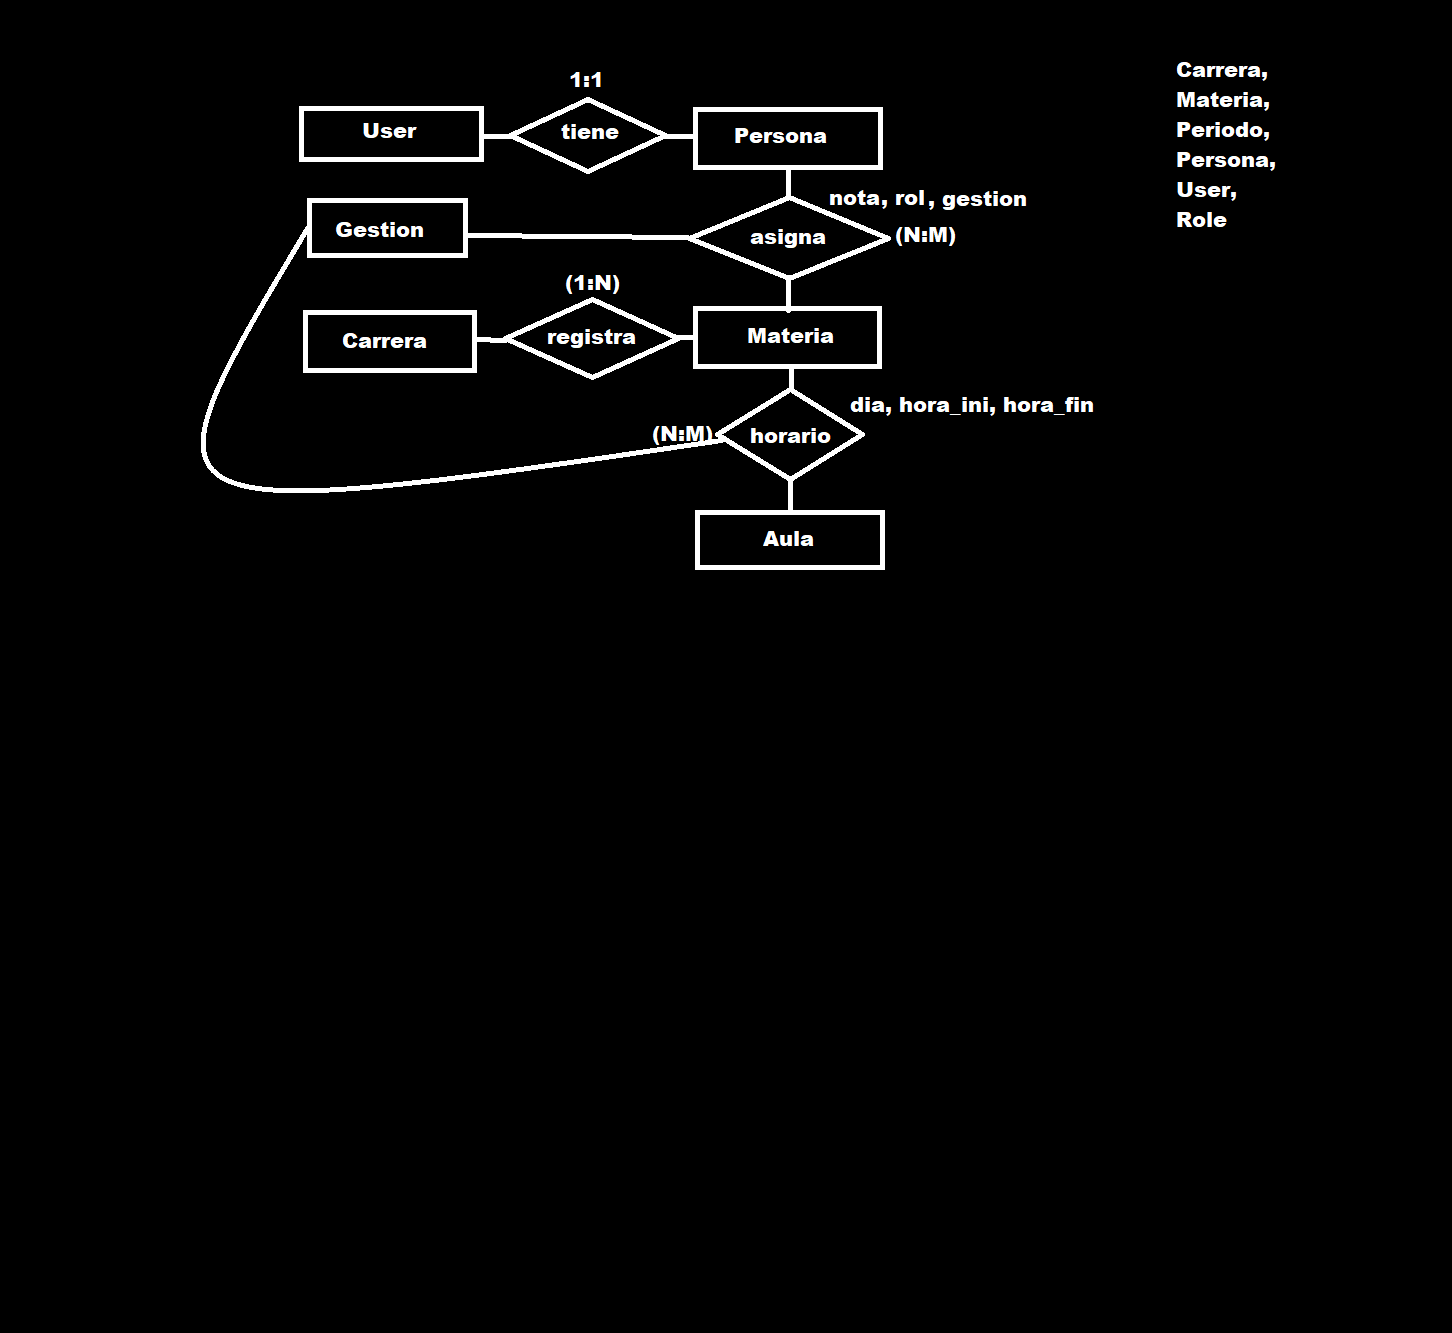
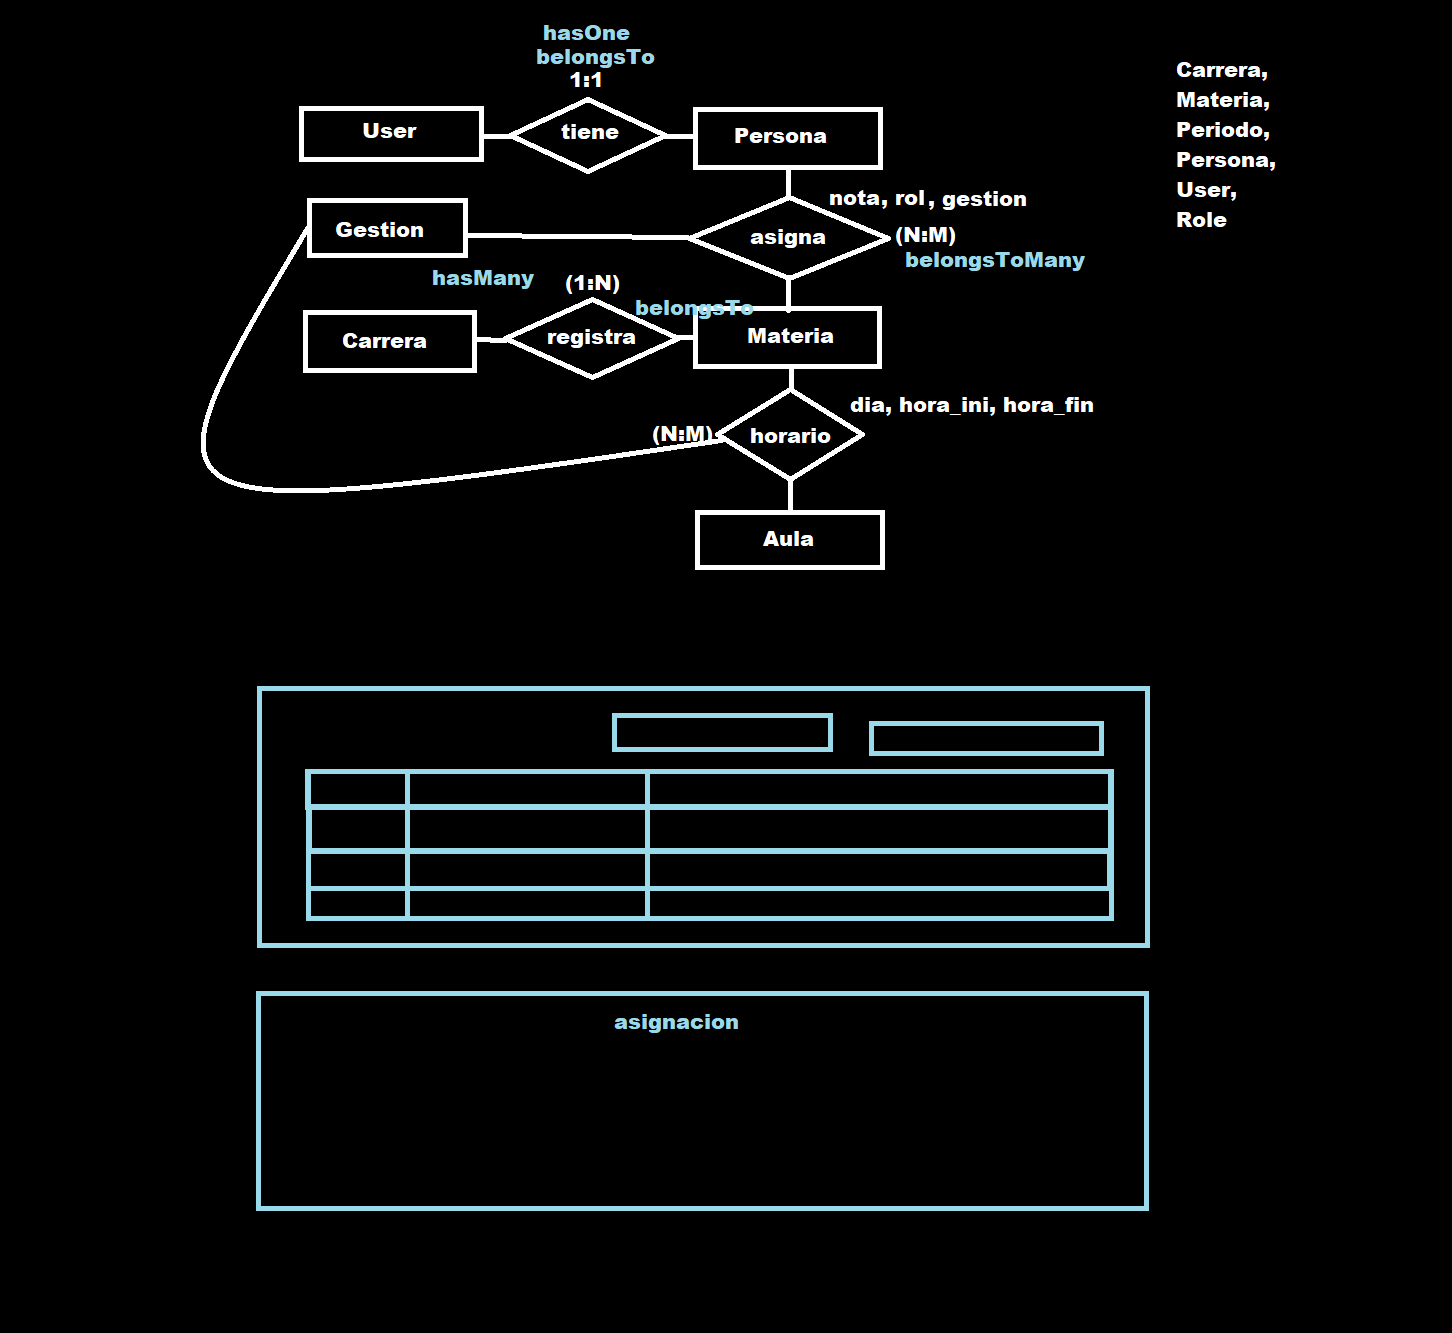
Relaciones

diff --git a/app/Http/Controllers/GestionController.php b/app/Http/Controllers/GestionController.php
@@ -1,0 +1,110 @@
+<?php
+
+namespace App\Http\Controllers;
+
+use App\Models\Gestion;
+use Illuminate\Http\Request;
+
+class GestionController extends Controller
+{
+    /**
+     * Display a listing of the resource.
+     *
+     * @return \Illuminate\Http\Response
+     */
+    public function index()
+    {
+        $gestiones = Gestion::all();
+
+        return response()->json($gestiones, 200);     
+        
+    }
+
+    /**
+     * Store a newly created resource in storage.
+     *
+     * @param  \Illuminate\Http\Request  $request
+     * @return \Illuminate\Http\Response
+     */
+    public function store(Request $request)
+    {
+        $request->validate([
+            "gestion" => "required",
+        ]);
+
+        $ges= new Gestion();
+        $ges->gestion = $request->gestion;
+        $ges->estado = false;
+        $ges->detalle = $request->detalle;
+        $ges->save();
+
+        return response()->json([
+            "mensaje" => "Gestion registrada"
+        ], 201);       
+
+    }
+
+    /**
+     * Display the specified resource.
+     *
+     * @param  int  $id
+     * @return \Illuminate\Http\Response
+     */
+    public function show($id)
+    {
+        $ges = Gestion::find($id);
+        return response()->json($ges, 200); 
+    }
+
+    /**
+     * Update the specified resource in storage.
+     *
+     * @param  \Illuminate\Http\Request  $request
+     * @param  int  $id
+     * @return \Illuminate\Http\Response
+     */
+    public function update(Request $request, $id)
+    {
+         $request->validate([
+            "gestion" => "required",
+        ]);
+
+        $ges = Gestion::find($id);
+        $ges->gestion = $request->gestion;
+        $ges->estado = false;
+        $ges->detalle = $request->detalle;
+        $ges->save();
+
+        return response()->json([
+            "mensaje" => "Gestion modificada"
+        ], 200);      
+    }
+
+    /**
+     * Remove the specified resource from storage.
+     *
+     * @param  int  $id
+     * @return \Illuminate\Http\Response
+     */
+    public function destroy($id)
+    {
+        $ges = Gestion::find($id);
+        $ges->delete();
+
+        return response()->json([
+            "mensaje" => "Gestion eliminada"
+        ], 200);
+    }
+
+    public function cambiarGestion($id)
+    {
+        foreach (Gestion::all() as $ges) {
+            if($ges->id == $id){
+                $ges->estado = true;
+            }else{
+                $ges->estado = false;
+            }
+            $ges->save();
+        }        
+    }
+}

diff --git a/app/Http/Controllers/AulaController.php b/app/Http/Controllers/AulaController.php
@@ -1,0 +1,95 @@
+<?php
+
+namespace App\Http\Controllers;
+
+use App\Models\Aula;
+use Illuminate\Http\Request;
+
+class AulaController extends Controller
+{
+    /**
+     * Display a listing of the resource.
+     *
+     * @return \Illuminate\Http\Response
+     */
+    public function index()
+    {
+        $aulas = Aula::all();
+        return response()->json($aulas);
+    }
+
+    /**
+     * Store a newly created resource in storage.
+     *
+     * @param  \Illuminate\Http\Request  $request
+     * @return \Illuminate\Http\Response
+     */
+    public function store(Request $request)
+    {
+        $request->validate([
+            "nombre" => "required",
+        ]);
+
+        $aula = new Aula();
+        $aula->nombre = $request->nombre;
+        $aula->ubicacion = $request->ubicacion;
+        $aula->capacidad = $request->capacidad;
+        $aula->save();
+
+        return response()->json([
+            "mensaje" => "Aula registrada"
+        ], 201);
+    }
+
+    /**
+     * Display the specified resource.
+     *
+     * @param  int  $id
+     * @return \Illuminate\Http\Response
+     */
+    public function show($id)
+    {
+        $aula = Aula::find($id);
+        return response()->json($aula, 200);
+    }
+
+    /**
+     * Update the specified resource in storage.
+     *
+     * @param  \Illuminate\Http\Request  $request
+     * @param  int  $id
+     * @return \Illuminate\Http\Response
+     */
+    public function update(Request $request, $id)
+    {
+        $request->validate([
+            "nombre" => "required",
+        ]);
+
+        $aula = Aula::find($id);
+        $aula->nombre = $request->nombre;
+        $aula->ubicacion = $request->ubicacion;
+        $aula->capacidad = $request->capacidad;
+        $aula->save();
+
+        return response()->json([
+            "mensaje" => "Aula modificada"
+        ], 200);
+    }
+
+    /**
+     * Remove the specified resource from storage.
+     *
+     * @param  int  $id
+     * @return \Illuminate\Http\Response
+     */
+    public function destroy($id)
+    {
+        $aula = Aula::find($id);
+        $aula->delete();
+        
+        return response()->json([
+            "mensaje" => "Aula eliminada"
+        ], 200);
+    }
+}

diff --git a/app/Http/Controllers/PersonaController.php b/app/Http/Controllers/PersonaController.php
@@ -3,6 +3,7 @@
 namespace App\Http\Controllers;
 
 use App\Models\Persona;
+use Faker\Provider\ar_EG\Person;
 use Illuminate\Http\Request;
 use Illuminate\Support\Facades\DB;
 
@@ -122,6 +123,31 @@ class PersonaController extends Controller
         // responder
         return response()->json([
             "mensaje" => "Eliminación correcta",
+            "error" => null,
+            "status" => true
+        ], 200);
+    }
+
+    public function asignarMaterias(Request $request, $id)
+    {
+        /*
+            [1, 6, 3, 8]
+        */
+        $materias = $request->materias;
+        $gestion = $request->gestion;
+        $rol = $request->rol;
+
+        $ass=[];
+        for ($i=0; $i<count($materias); $i++) {
+            $ass[$materias[$i]] = ["gestion_id" => $gestion, "rol" => $rol];
+        }
+
+        // return $ass;
+        $persona = Persona::find($id);
+        $persona->materias()->attach($ass);
+
+        return response()->json([
+            "mensaje" => "Asignacion correcta",
             "error" => null,
             "status" => true
         ], 200);

diff --git a/routes/api.php b/routes/api.php
@@ -2,6 +2,7 @@
 
 use App\Http\Controllers\AuthController;
 use App\Http\Controllers\CarreraController;
+use App\Http\Controllers\GestionController;
 use App\Http\Controllers\MateriaController;
 use App\Http\Controllers\PersonaController;
 use Illuminate\Http\Request;
@@ -26,8 +27,13 @@ Route::group(["prefix" => "/v1/auth"], function(){
 
 //  
 Route::group(["middleware" => "auth:sanctum"], function(){
+
+    // asignacion materias
+    Route::post("persona/{id}/asignacion-materias", [PersonaController::class, "asignarMaterias"]);
     
+    Route::post("gestion/{id}/cabiar-gestion", [GestionController::class, "cambiarGestion"]);
     // recursos api
+    Route::apiResource("gestion", GestionController::class);
     Route::apiResource("materia", MateriaController::class);
     Route::apiResource("carrera", CarreraController::class);
     Route::apiResource("persona", PersonaController::class);

diff --git a/database/seeders/AulaSeeder.php b/database/seeders/AulaSeeder.php
@@ -1,0 +1,39 @@
+<?php
+
+namespace Database\Seeders;
+
+use App\Models\Aula;
+use Illuminate\Database\Console\Seeds\WithoutModelEvents;
+use Illuminate\Database\Seeder;
+
+class AulaSeeder extends Seeder
+{
+    /**
+     * Run the database seeds.
+     *
+     * @return void
+     */
+    public function run()
+    {
+        
+        $aula = new Aula();
+        $aula->nombre = "AULA 1";
+        $aula->ubicacion = "1 piso";
+        $aula->capacidad = 30;
+        $aula->save();
+
+        $aula = new Aula();
+        $aula->nombre = "AULA 2";
+        $aula->ubicacion = "2 piso";
+        $aula->capacidad = 45;
+        $aula->save();
+
+        $aula = new Aula();
+        $aula->nombre = "AULA 3";
+        $aula->ubicacion = "planta Baja";
+        $aula->capacidad = 50;
+        $aula->save();      
+
+        
+    }
+}

diff --git a/app/Models/Materia.php b/app/Models/Materia.php
@@ -8,4 +8,19 @@ use Illuminate\Database\Eloquent\Model;
 class Materia extends Model
 {
     use HasFactory;
+
+    public function carrera()
+    {
+        return $this->belongsTo(Carrera::class);
+    }
+
+    public function personas()
+    {
+        return $this->belongsToMany(Persona::class)->withPivot("nota", "rol", "gestion_id");
+    }
+
+    public function aula()
+    {
+        return $this->belongsToMany(Aula::class)->withPivot("dia", "hora_ini", "hora_fin");
+    }
 }

diff --git a/database/seeders/DatabaseSeeder.php b/database/seeders/DatabaseSeeder.php
@@ -14,12 +14,13 @@ class DatabaseSeeder extends Seeder
      */
     public function run()
     {
-        \App\Models\User::factory(100)->create();
-        /*
+        //\App\Models\User::factory(100)->create();
+        
         $this->call([
             UserSeeder::class,
             CarreraSeeder::class,
+            AulaSeeder::class
         ]);
-        */
+        
     }
 }

diff --git a/app/Models/Persona.php b/app/Models/Persona.php
@@ -8,4 +8,14 @@ use Illuminate\Database\Eloquent\Model;
 class Persona extends Model
 {
     use HasFactory;
+
+    public function user()
+    {
+        return $this->belongsTo(User::class);
+    }
+
+    public function materias()
+    {
+        return $this->belongsToMany(Materia::class)->withPivot("nota","rol", "gestion_id");
+    }
 }

diff --git a/app/Models/Aula.php b/app/Models/Aula.php
@@ -8,4 +8,9 @@ use Illuminate\Database\Eloquent\Model;
 class Aula extends Model
 {
     use HasFactory;
+
+    public function materias()
+    {
+        return $this->belongsToMany(Materia::class)->withPivot("dia", "hora_ini", "hora_fin");;
+    }
 }

diff --git a/app/Models/User.php b/app/Models/User.php
@@ -41,4 +41,10 @@ class User extends Authenticatable
     protected $casts = [
         'email_verified_at' => 'datetime',
     ];
+
+
+    public function persona()
+    {
+        return $this->hasOne(Persona::class);
+    }
 }
